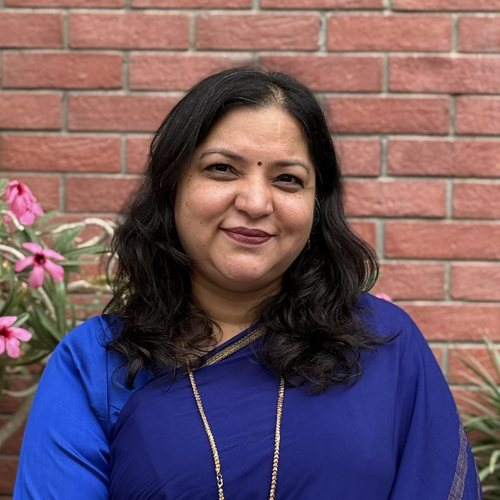
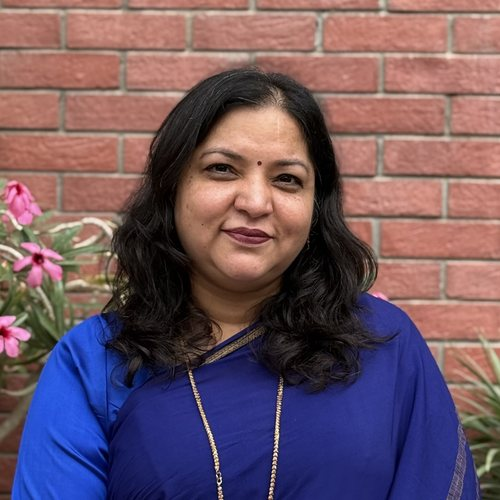
Team: add the 11 August photo batch
68 files, 39 people assigned: 15 initials placeholders filled and 24 existing photos refreshed
from the new shoot, so the page reads as one consistent set. Coverage goes from 43 of 97 to 58.

Matching is strict, and that mattered. A looser matcher put Samarth Rana onto Samarth Paul, Deepak
Yadav onto Deepak Batra, Harshit Sodhani onto Harshit Pathak and Aditya Goswami onto Aditya Gore,
because it fell back to first names and the roster holds two Samarths, two Abhisheks, two Adityas,
four Sachins and three Ankits. Putting the wrong face against a person's name is worse than
leaving initials, so a photo is assigned only on an unambiguous match.

Four spellings resolved by hand, each unambiguous on the roster: Aryan Khann is Aryan Khanna,
Naman is Namandeep, om is Kandhi Omprakash, and Himanshi is Himanshi Sharma, whose heading carries
a PMP chip that broke the automatic read of the name.

Two files deliberately left unassigned rather than guessed:

  Ankit android.jpg      three people on the roster are called Ankit
  20260812_102842682_iOS.jpg  named only by its camera timestamp

Same pipeline as before: HEIC converted, EXIF orientation applied so landscape shots are not
sideways, faces detected with Apple's Vision framework, and cropped to head and shoulders. Where
several shots of one person exist, the one with the largest detected face is used, being closest
to the framing of the rest.

diff --git a/team.html b/team.html
@@ -417,20 +417,20 @@ window.DHWANI_FORMS = {
     <div class="pcard" data-g="tech"><div class="av"><img src="assets/img/team/rohit-singh.jpg" alt="Rohit Singh" loading="lazy"></div><h4>Rohit Singh</h4><div class="role">Sr. Data Engineer</div></div>
     <div class="pcard" data-g="tech"><div class="av"><img src="assets/img/team/KandhiOm.jpg" alt="Kandhi Omprakash" loading="lazy"></div><h4>Kandhi Omprakash</h4><div class="role">SDE 3 - Full Stack</div></div>
     <div class="pcard" data-g="management"><div class="av"><span class="mono">VP</span></div><h4>Vishwa Patel</h4><div class="role">Engagement Manager</div></div>
-    <div class="pcard" data-g="management"><div class="av"><span class="mono">AA</span></div><h4>Aastha Arora</h4><div class="role">Sr. Project Manager</div></div>
+    <div class="pcard" data-g="management"><div class="av"><img src="assets/img/team/aastha-arora.jpg" alt="Aastha Arora" loading="lazy"></div><h4>Aastha Arora</h4><div class="role">Sr. Project Manager</div></div>
     <div class="pcard" data-g="management"><div class="av"><span class="mono">AB</span></div><h4>Arvind Bansode</h4><div class="role">Sr. Project Manager</div></div>
-    <div class="pcard" data-g="management"><div class="av"><span class="mono">AJ</span></div><h4>Arpita Jain</h4><div class="role">Project Manager</div></div>
+    <div class="pcard" data-g="management"><div class="av"><img src="assets/img/team/arpita-jain.jpg" alt="Arpita Jain" loading="lazy"></div><h4>Arpita Jain</h4><div class="role">Project Manager</div></div>
     <div class="pcard" data-g="management"><div class="av"><span class="mono">RS</span></div><h4>Rashika Saini</h4><div class="role">Project Manager</div></div>
     <div class="pcard" data-g="management"><div class="av"><span class="mono">MA</span></div><h4>Mohd Afaq</h4><div class="role">Associate Program Manager</div></div>
-    <div class="pcard" data-g="management"><div class="av"><span class="mono">AG</span></div><h4>Aditya Goswami</h4><div class="role">Associate Product Manager</div></div>
+    <div class="pcard" data-g="management"><div class="av"><img src="assets/img/team/aditya-goswami.jpg" alt="Aditya Goswami" loading="lazy"></div><h4>Aditya Goswami</h4><div class="role">Associate Product Manager</div></div>
     <div class="pcard" data-g="management"><div class="av"><span class="mono">FN</span></div><h4>Fathima Nihala</h4><div class="role">Associate Product Manager</div></div>
     <div class="pcard" data-g="management"><div class="av"><span class="mono">FS</span></div><h4>Fahimuddin Sayyed</h4><div class="role">Associate Project Manager</div></div>
     <div class="pcard" data-g="management"><div class="av"><img src="assets/img/team/kashish-talwani.jpg" alt="Kashish Talwani" loading="lazy"></div><h4>Kashish Talwani</h4><div class="role">Associate Project Manager</div></div>
-    <div class="pcard" data-g="management"><div class="av"><span class="mono">KM</span></div><h4>Krishna Maheshwari</h4><div class="role">Associate Project Manager</div></div>
+    <div class="pcard" data-g="management"><div class="av"><img src="assets/img/team/krishna-maheshwari.jpg" alt="Krishna Maheshwari" loading="lazy"></div><h4>Krishna Maheshwari</h4><div class="role">Associate Project Manager</div></div>
     <div class="pcard" data-g="management"><div class="av"><img src="assets/img/team/mayur-sharma.jpg" alt="Mayur Sharma" loading="lazy"></div><h4>Mayur Sharma</h4><div class="role">Associate Project Manager</div></div>
     <div class="pcard" data-g="management"><div class="av"><span class="mono">PT</span></div><h4>Pranati Tiwari</h4><div class="role">Associate Project Manager</div></div>
     <div class="pcard" data-g="management"><div class="av"><span class="mono">SP</span></div><h4>Samarth Paul</h4><div class="role">Associate Project Manager</div></div>
-    <div class="pcard" data-g="management"><div class="av"><span class="mono">SR</span></div><h4>Samarth Rana</h4><div class="role">Associate Project Manager</div></div>
+    <div class="pcard" data-g="management"><div class="av"><img src="assets/img/team/samarth-rana.jpg" alt="Samarth Rana" loading="lazy"></div><h4>Samarth Rana</h4><div class="role">Associate Project Manager</div></div>
     <div class="pcard" data-g="support"><div class="av"><img src="assets/img/team/hunny-tyagi.jpg" alt="Hunny Tyagi" loading="lazy"></div><h4>Hunny Tyagi</h4><div class="role">Sr. Accountant</div></div>
     <div class="pcard" data-g="management"><div class="av"><img src="assets/img/team/namandeep.jpg" alt="Namandeep" loading="lazy"></div><h4>Namandeep</h4><div class="role">Sr. Analyst</div></div>
     <div class="pcard" data-g="management"><div class="av"><span class="mono">SJ</span></div><h4>Sunita Joshi</h4><div class="role">Sr. Analyst</div></div>
@@ -450,37 +450,37 @@ window.DHWANI_FORMS = {
     <div class="pcard" data-g="tech"><div class="av"><span class="mono">NP</span></div><h4>Navneet Patteri</h4><div class="role">SDE 1 - Frappe</div></div>
     <div class="pcard" data-g="tech"><div class="av"><span class="mono">PM</span></div><h4>Pankaj Mishra</h4><div class="role">SDE 1 - Frappe</div></div>
     <div class="pcard" data-g="tech"><div class="av"><span class="mono">RS</span></div><h4>Rahul Sah</h4><div class="role">SDE 1 - Frappe</div></div>
-    <div class="pcard" data-g="tech"><div class="av"><span class="mono">RM</span></div><h4>Raman Mishra</h4><div class="role">SDE 1 -  Mobile Developer</div></div>
+    <div class="pcard" data-g="tech"><div class="av"><img src="assets/img/team/raman-mishra.jpg" alt="Raman Mishra" loading="lazy"></div><h4>Raman Mishra</h4><div class="role">SDE 1 -  Mobile Developer</div></div>
     <div class="pcard" data-g="tech"><div class="av"><span class="mono">SV</span></div><h4>Sparsh Verma</h4><div class="role">SDE 1 - Frappe</div></div>
     <div class="pcard" data-g="tech"><div class="av"><span class="mono">SY</span></div><h4>Sujeet Yadav</h4><div class="role">SDE 1 - Frappe</div></div>
     <div class="pcard" data-g="tech"><div class="av"><span class="mono">SS</span></div><h4>Suraj Singh</h4><div class="role">SDE 1 - Full Stack</div></div>
-    <div class="pcard" data-g="tech"><div class="av"><span class="mono">VS</span></div><h4>Vanshika Sehgal</h4><div class="role">SDE 1 - Full Stack</div></div>
+    <div class="pcard" data-g="tech"><div class="av"><img src="assets/img/team/vanshika-sehgal.jpg" alt="Vanshika Sehgal" loading="lazy"></div><h4>Vanshika Sehgal</h4><div class="role">SDE 1 - Full Stack</div></div>
     <div class="pcard" data-g="tech"><div class="av"><span class="mono">VT</span></div><h4>Vishwajeet Thakur</h4><div class="role">SDE 1 - Frappe</div></div>
     <div class="pcard" data-g="support"><div class="av"><span class="mono">SA</span></div><h4>Shalini Agrahari</h4><div class="role">CA - Accounts</div></div>
-    <div class="pcard" data-g="management"><div class="av"><span class="mono">AV</span></div><h4>Akshat Verma</h4><div class="role">Analyst</div></div>
+    <div class="pcard" data-g="management"><div class="av"><img src="assets/img/team/akshat-verma.jpg" alt="Akshat Verma" loading="lazy"></div><h4>Akshat Verma</h4><div class="role">Analyst</div></div>
     <div class="pcard" data-g="management"><div class="av"><img src="assets/img/team/aman-sharma.jpg" alt="Aman Sharma" loading="lazy"></div><h4>Aman Sharma</h4><div class="role">Analyst</div></div>
-    <div class="pcard" data-g="management"><div class="av"><span class="mono">AK</span></div><h4>Aryan Khanna</h4><div class="role">Analyst</div></div>
+    <div class="pcard" data-g="management"><div class="av"><img src="assets/img/team/aryan-khanna.jpg" alt="Aryan Khanna" loading="lazy"></div><h4>Aryan Khanna</h4><div class="role">Analyst</div></div>
     <div class="pcard" data-g="tech"><div class="av"><span class="mono">BM</span></div><h4>Bhanu Marwah</h4><div class="role">Data Engineer</div></div>
     <div class="pcard" data-g="management"><div class="av"><span class="mono">BS</span></div><h4>Brahmjyot Singh</h4><div class="role">Analyst</div></div>
     <div class="pcard" data-g="management"><div class="av"><span class="mono">CJ</span></div><h4>Chitranshi Jain</h4><div class="role">Analyst</div></div>
     <div class="pcard" data-g="tech"><div class="av"><span class="mono">DB</span></div><h4>Deepak Bharti</h4><div class="role">Data Engineer</div></div>
     <div class="pcard" data-g="management"><div class="av"><img src="assets/img/team/deepak-yadav.jpg" alt="Deepak Yadav" loading="lazy"></div><h4>Deepak Yadav</h4><div class="role">Analyst</div></div>
-    <div class="pcard" data-g="management"><div class="av"><span class="mono">DH</span></div><h4>Diksha Hazarika</h4><div class="role">Analyst - Intern</div></div>
+    <div class="pcard" data-g="management"><div class="av"><img src="assets/img/team/diksha-hazarika.jpg" alt="Diksha Hazarika" loading="lazy"></div><h4>Diksha Hazarika</h4><div class="role">Analyst - Intern</div></div>
     <div class="pcard" data-g="management"><div class="av"><img src="assets/img/team/nandita-sharma.jpg" alt="Nandita Sharma" loading="lazy"></div><h4>Nandita Sharma</h4><div class="role">Analyst</div></div>
-    <div class="pcard" data-g="support"><div class="av"><span class="mono">NK</span></div><h4>Nikhil Kumar</h4><div class="role">Admin Associate</div></div>
+    <div class="pcard" data-g="support"><div class="av"><img src="assets/img/team/nikhil-kumar.jpg" alt="Nikhil Kumar" loading="lazy"></div><h4>Nikhil Kumar</h4><div class="role">Admin Associate</div></div>
     <div class="pcard" data-g="management"><div class="av"><span class="mono">NJ</span></div><h4>Nitin Jangid</h4><div class="role">Analyst - Intern</div></div>
     <div class="pcard" data-g="management"><div class="av"><span class="mono">PS</span></div><h4>Pooja Srivastava</h4><div class="role">Analyst</div></div>
-    <div class="pcard" data-g="tech"><div class="av"><span class="mono">PR</span></div><h4>Prakash Rana</h4><div class="role">DevOps Engineer</div></div>
+    <div class="pcard" data-g="tech"><div class="av"><img src="assets/img/team/prakash-rana.jpg" alt="Prakash Rana" loading="lazy"></div><h4>Prakash Rana</h4><div class="role">DevOps Engineer</div></div>
     <div class="pcard" data-g="management"><div class="av"><span class="mono">SM</span></div><h4>Sachin Malik</h4><div class="role">Analyst</div></div>
     <div class="pcard" data-g="tech"><div class="av"><span class="mono">SS</span></div><h4>Sachin Sharma</h4><div class="role">Data Engineer</div></div>
-    <div class="pcard" data-g="tech"><div class="av"><span class="mono">SR</span></div><h4>Sachin Vinod Rathod</h4><div class="role">QA Engineer</div></div>
+    <div class="pcard" data-g="tech"><div class="av"><img src="assets/img/team/sachin-vinod-rathod.jpg" alt="Sachin Vinod Rathod" loading="lazy"></div><h4>Sachin Vinod Rathod</h4><div class="role">QA Engineer</div></div>
     <div class="pcard" data-g="tech"><div class="av"><span class="mono">SS</span></div><h4>Sarthak Srivastava</h4><div class="role">QA Engineer</div></div>
     <div class="pcard" data-g="management"><div class="av"><span class="mono">SS</span></div><h4>Shikhar Shukla</h4><div class="role">Analyst</div></div>
     <div class="pcard" data-g="management"><div class="av"><span class="mono">SV</span></div><h4>Shreyash Shrirang Varhadi</h4><div class="role">Analyst</div></div>
-    <div class="pcard" data-g="management"><div class="av"><span class="mono">SS</span></div><h4>Sunchay Singhal</h4><div class="role">Analyst</div></div>
+    <div class="pcard" data-g="management"><div class="av"><img src="assets/img/team/sunchay-singhal.jpg" alt="Sunchay Singhal" loading="lazy"></div><h4>Sunchay Singhal</h4><div class="role">Analyst</div></div>
     <div class="pcard" data-g="tech"><div class="av"><span class="mono">SS</span></div><h4>Sushant Singh</h4><div class="role">QA Engineer</div></div>
     <div class="pcard" data-g="tech"><div class="av"><span class="mono">TK</span></div><h4>Tabseer Khan</h4><div class="role">Data Engineer</div></div>
-    <div class="pcard" data-g="tech"><div class="av"><span class="mono">AP</span></div><h4>Abhishek Prajapati</h4><div class="role">Flutter Developer - Intern</div></div>
+    <div class="pcard" data-g="tech"><div class="av"><img src="assets/img/team/abhishek-prajapati.jpg" alt="Abhishek Prajapati" loading="lazy"></div><h4>Abhishek Prajapati</h4><div class="role">Flutter Developer - Intern</div></div>
     <div class="pcard" data-g="tech"><div class="av"><span class="mono">YB</span></div><h4>Yatin Berry</h4><div class="role">Frappe - Intern</div></div>
   </div>
   </div>
